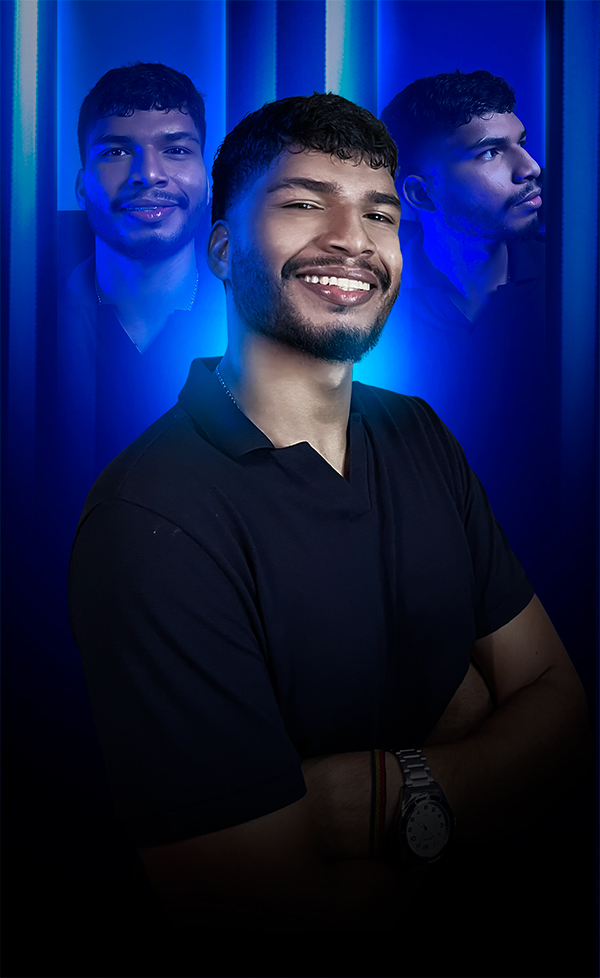
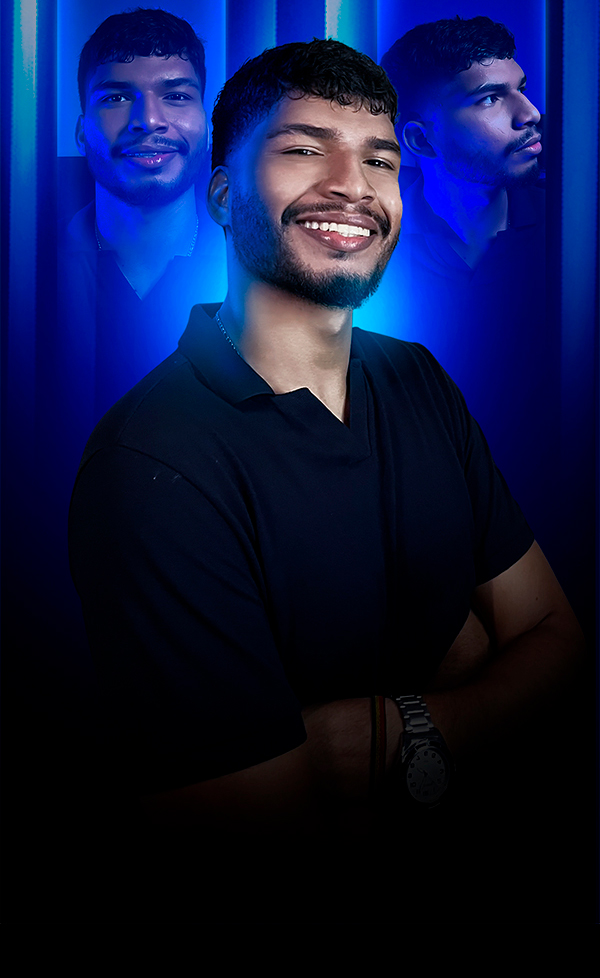
udpate solicitado pelo igor

diff --git a/src/css/custom.css b/src/css/custom.css
@@ -149,7 +149,7 @@ header p {
         background-image: url("../imagens/backgorund_igordesigner.jpg");
         background-position: center right;
         justify-content: flex-end;
-        padding-bottom: 30px;
+        padding-bottom: 20px;
     }
 
     #subtitle {
@@ -162,8 +162,9 @@ header p {
 @media (max-width: 600px) {
     header {
         background-image: url("../imagens/background_igordesigner600px.jpg");
-        background-position: center top;
-        padding-bottom: 40px;
+        background-position: center bottom;
+        background-position-y: -40px; /* Move para cima */
+        padding-bottom: 20px;
     }
 
     #subtitle {
